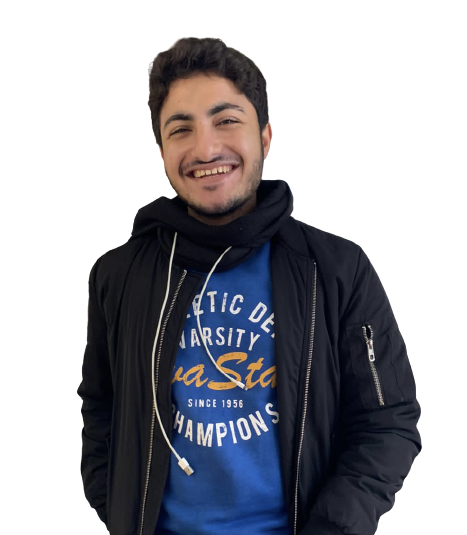
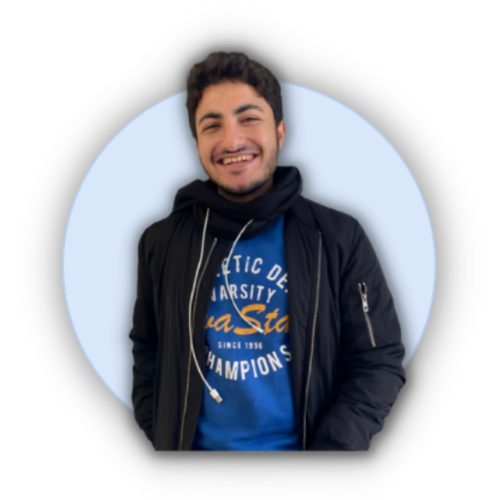
End of first prototype

diff --git a/src/components/intialPage/WelcomeDiv/WelcomeMessage.jsx b/src/components/intialPage/WelcomeDiv/WelcomeMessage.jsx
@@ -3,19 +3,19 @@ import React from "react";
 function WelcomeMessage() {
   return (
     <div className="welcomeMessage">
-      <h4>Hello World!, I am</h4>
-      <h1>Maged Magdi Alosali</h1>
-      <h2>Software Engineer</h2>
-      <p>
+      <h4 className = "hello">Hello World!, I am</h4>
+      <h1 className="name">Maged Magdi Alosali</h1>
+      <h2 >A Passionte Software Engineer</h2>
+      <p className="text">
         I am a software engineering student at Cairo university, a professional
         programmer who have been through multiple projects.
       </p>
-      <p>
+      <p className="text">
         I am looking for internship in a company which is going to help me
         enhance my knowledge, skills and work on real-life projects.
       </p>
-      <h3>Why Choose Me?</h3>
-      <ul>
+      <h3 className="why">Why Choose Me?</h3>
+      <ul className="text">
         <li>I am a hard-working and dedicated person who is always ready to learn new tools and technologies.</li>
         <li>I am also a good team member who is always ready to help other people.</li>
         <li>I had the chance to lead several projects and managed conflicts between team members.</li>

diff --git a/public/css/intialPage/intial.css b/public/css/intialPage/intial.css
@@ -1,8 +1,19 @@
 body {
     margin: 0;
+    font-size: 20px;
+    color:black;
+    background-color: #f5f5f5;
+    background-image: url("https://www.transparenttextures.com/patterns/asfalt-dark.png");
 }
 
+p , ul{
+    font-family: 'Prompt', sans-serif;
 
+}
+
+li {
+    margin-bottom: 10px;
+}
 
 hr {
     border-style: dotted;
@@ -13,16 +24,44 @@ hr {
     color: grey;
 }
 
-h1, h2, h3, h4, p{ 
+h1, h2, h3, h4,h5,h6{ 
     margin-top: 0;
+    font-family: 'Stick No Bills', sans-serif;
+    font-size: 40px;
+   
 }
+
+
 
 .headers {
     padding-bottom: 40px;
 }
 
 
+.hello{
+    margin: 0;
+    font-size: 25px;
+    
+}
+
+.software {
+    text-align: center;
+}
 
 .Logo {
     height: 95px;
+}
+
+.why {
+    margin-bottom: 0px;;
+}
+
+.Margin {
+
+    
+    background-color: #1f45fc;
+    position:fixed;
+    width: 70px;
+    height: 100%;
+    z-index:1;
 }

diff --git a/public/css/intialPage/projectsDiv.css b/public/css/intialPage/projectsDiv.css
@@ -1,23 +1,37 @@
 #projects {
     padding: 40px;
     text-align: center;
-    background-color: #9BA3EB;
-    color: #DBDFFD;
-    
 }
 
 .leftImage {
     
     margin-right: 20px;
-    float: left;
+    float:left;
 }
 
+.proTitle {
+    font-size: 30px;
+    margin-bottom: 0px;
+}
+.left{
+    width : 650px;
+    text-align: left;
+    margin-left: 120px;
+}
+
+.right {
+    width : 650px;
+    text-align: left;
+    margin-right: 120px;
+}
 .leftDescription {
     width: 650px;
     position: relative;
-    right: 20%; 
+    right: 20%;
     margin: 40px auto 40px auto;
-    text-align: left;
+    text-align: center;
+    font-size: 20px;
+    color:black;
 }
 
 .rightImage{
@@ -32,5 +46,7 @@
     position: relative;
     left: 20%; 
     margin: 0 auto 40px auto;
-    text-align: left;   
+    text-align: left;
+    font-size: 20px;
+    color:black   
 }

diff --git a/public/index.html b/public/index.html
@@ -11,6 +11,11 @@
     <link rel="stylesheet" href="./css/headers.css" />
     <link rel="stylesheet" href="./css/footer.css" />
     <link rel="icon" href="./Logo.ico" type="image/x-icon" />
+    <link rel="preconnect" href="https://fonts.googleapis.com">
+    <link rel="preconnect" href="https://fonts.gstatic.com" crossorigin>
+    <link href="https://fonts.googleapis.com/css2?family=Dancing+Script&display=swap" rel="stylesheet">
+    <link href="https://fonts.googleapis.com/css2?family=Prompt:wght@200&display=swap" rel="stylesheet">
+    <link href="https://fonts.googleapis.com/css2?family=Stick+No+Bills:wght@300&display=swap" rel="stylesheet">
   </head>
   <body>
     <div id="root"></div>

diff --git a/public/css/intialPage/welcomeDiv.css b/public/css/intialPage/welcomeDiv.css
@@ -1,23 +1,37 @@
 #welcome {
-  background-color: #646fd4;
-  margin: 0;
+
+  margin: 0 0 0 0px;
+
   text-align: center;
   line-height: 2;
   padding: 9.5rem 0;
 }
 
 .welcomeMessage {
-  color: #dbdffd;
+  color: black;
   text-align: left;
   margin: 0 auto;
   display: inline-block;
-  width: 31.25rem;
+  width: 35rem;
   position: relative;
   top: 20px;
   left: 3.125rem;
 }
 
 .welcomeImage {
-  margin-left: 100px;
+  margin-left: 250px;
   height: 550px;
+  position: relative;
+  top: 50px;
+}
+
+.text {
+  line-height: 1.2;
+}
+.name {
+  font-family: 'Dancing Script', cursive;
+  text-align: center;
+  font-size: 60px;
+  position: relative;
+  left: 65%;
 }

diff --git a/src/components/intialPage/ProjectsDiv/Project.jsx b/src/components/intialPage/ProjectsDiv/Project.jsx
@@ -3,9 +3,9 @@ import Logo from "./Logo";
 import ProjectDescription from "./ProjectDescription";
 function Project(props) {
   return (
-    <div className={props.isLeft ? "leftDescription" : "rightDescription"}>
+    <div className={props.isLeft ? "leftDescription" : "rightDescription"}  >
       <Logo image={props.image} alt={props.alt} isLeft={props.isLeft} />
-      <ProjectDescription title={props.title} description={props.description} />
+      <ProjectDescription title={props.title} description={props.description} class ={props.isLeft ? "left" : "right"}/>
     </div>
   );
 }

diff --git a/public/css/headers.css b/public/css/headers.css
@@ -1,14 +1,14 @@
 header{
     position: fixed;
-    background-color: white;
+    background-color: #296d98;
     width: 100%;
     height: 70px;
-    z-index: 1;
+    z-index: 2;
 }
 
 .PageLogo {
     float: left;
-    padding: 10px 30px 0 30px;
+    padding: 10px 30px 0 70px;
 }
 
 #PageLogo {
@@ -24,6 +24,6 @@ header{
 
 .Link {
     font-size: large;
-    margin-left: 80px;
+    margin-left: 5em;
     text-decoration: none;
 }

diff --git a/public/css/footer.css b/public/css/footer.css
@@ -1,7 +1,9 @@
 footer {
     text-align: center;
-    background-color: white;
+    background-color: #0e2433;
     padding-bottom: 20px;
+    z-index: 2;
+    position:relative;
 }
 
 
@@ -19,14 +21,16 @@ footer {
 }
 
 .email {
-    
+    color :#EC9706;
     font-size: large;
     margin-bottom: 10px;
     margin-top: 0px;
 }
 
+
+
 .footerText {
-    
+    color:#EC9706;
     font-size: large;
     margin: 0;
 }

diff --git a/src/components/App.jsx b/src/components/App.jsx
@@ -4,10 +4,12 @@ import Projects from "./intialPage/ProjectsDiv/Projects";
 import Skills from "./intialPage/SkillsDiv/Skills";
 import Header from "./headerSection/Header";
 import Footer from "./FooterSection/Footer";
+// import Margin from "./Margin";
 function App() {
   return (
     <div>
       <Header />
+       {/* <Margin />  */}
       <Welcome />
       <Projects />
       <Skills />

diff --git a/src/components/FooterSection/FooterLink.jsx b/src/components/FooterSection/FooterLink.jsx
@@ -1,14 +1,14 @@
 import React from "react";
 
 function FooterLink(props) {
-  var [color, setColor] = React.useState("blueviolet");
+  var [color, setColor] = React.useState("white");
 
   function mouseOn() {
-    setColor("blue");
+    setColor("#EC9706");
   }
 
   function mouseOff() {
-    setColor("blueviolet");
+    setColor("white");
   }
   
   return (

diff --git a/src/components/headerSection/Link.jsx b/src/components/headerSection/Link.jsx
@@ -1,14 +1,14 @@
 import React from "react";
 
 function Link(props) {
-  var [color, setColor] = React.useState("blueviolet");
+  var [color, setColor] = React.useState("white");
 
   function mouseOn() {
-    setColor("blue");
+    setColor("#EC9706");
   }
 
   function mouseOff() {
-    setColor("blueviolet");
+    setColor("white");
   }
 
   return (

diff --git a/src/components/intialPage/ProjectsDiv/ProjectDescription.jsx b/src/components/intialPage/ProjectsDiv/ProjectDescription.jsx
@@ -2,8 +2,8 @@ import React from "react";
 
 function ProjectDescription(props) {
   return (
-    <div>
-      <h3>{props.title}</h3>
+    <div className={props.class} >
+      <h3 className="proTitle">{props.title}</h3>
       <p>{props.description}</p>
     </div>
   );
